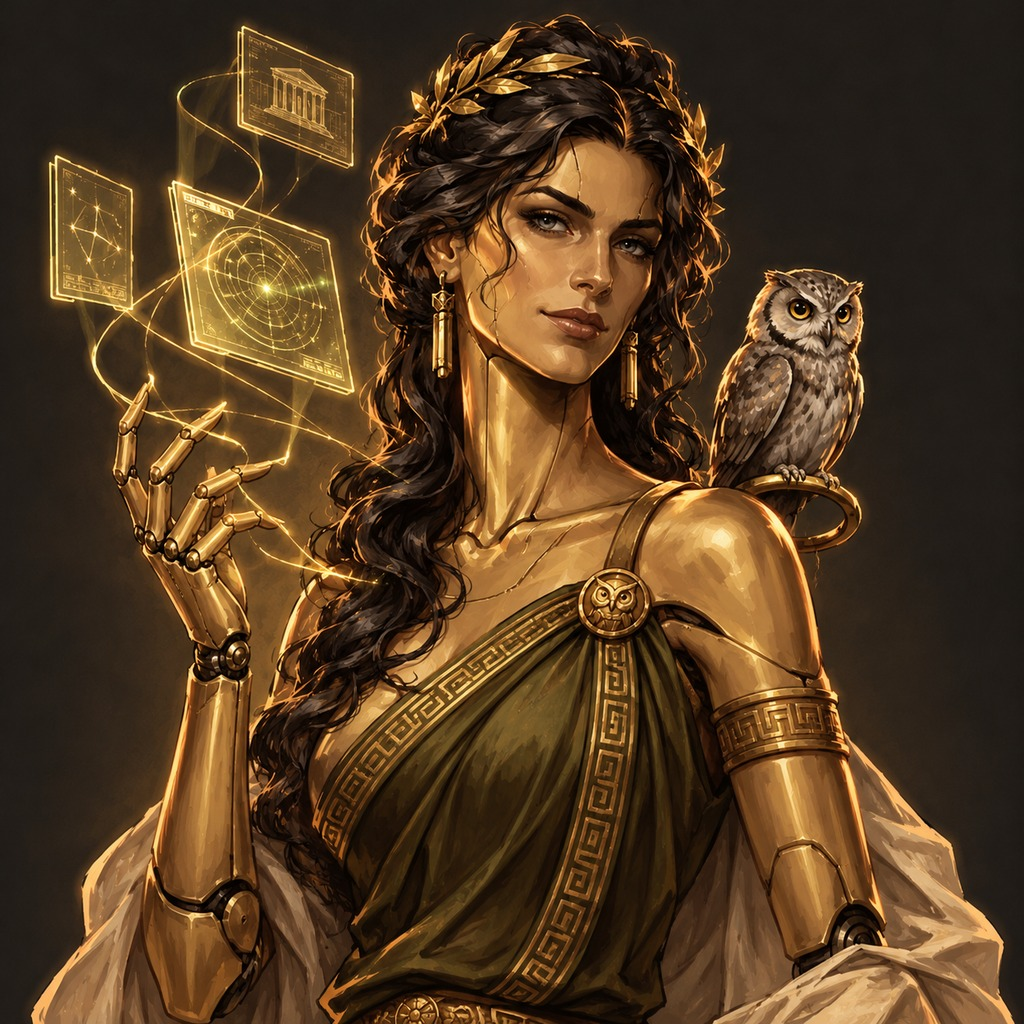
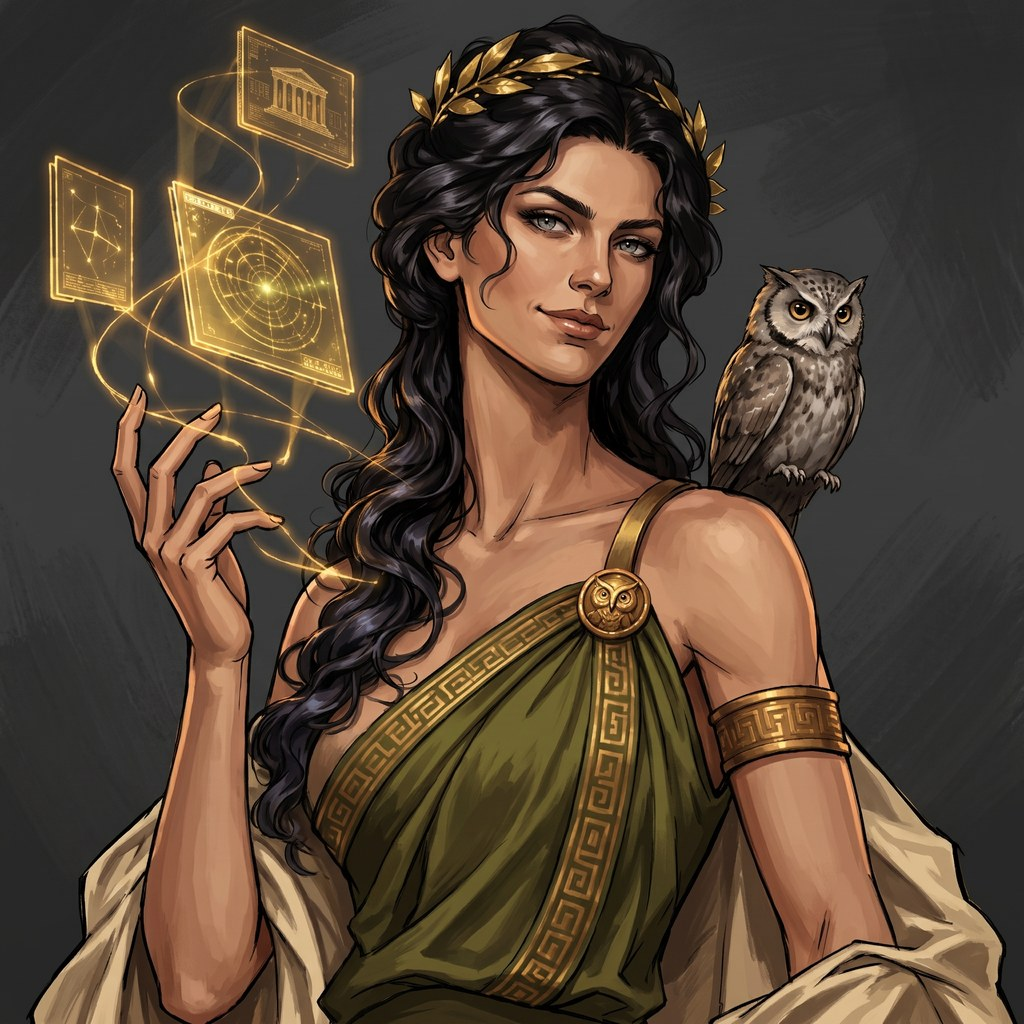
Athena's portrait in flesh (AJ 11-02): the new original from kourai-khryseai, its cut-out, face crops and head box (#226)

diff --git a/scripts/cut-portraits.py b/scripts/cut-portraits.py
@@ -29,7 +29,7 @@ NAMES = tuple(sorted(KOURAI + NEW))
 HEAD = (
     {name: (180, 20, 460, 300) for name in KOURAI}
     | {"hephaestus": (250, 20, 530, 300)}
-    | {"chronos": (242, 20, 842, 620), "argos": (268, 20, 768, 520), "hermes": (266, 30, 786, 550), "elpis": (270, 20, 750, 500), "hesychia": (212, 20, 772, 580), "athena": (300, 0, 820, 520)}
+    | {"chronos": (242, 20, 842, 620), "argos": (268, 20, 768, 520), "hermes": (266, 30, 786, 550), "elpis": (270, 20, 750, 500), "hesychia": (212, 20, 772, 580), "athena": (290, 10, 870, 590)}
 )
 SIZES = (96, 192)
 # (left, top, right, bottom) of the square half-figure: the head in the upper

diff --git a/scripts/cutout-portraits.py b/scripts/cutout-portraits.py
@@ -4,7 +4,7 @@ The ten kourai portraits ship with transparent cut-outs; the newer ones are
 painted on a dark backdrop. This runs rembg's `isnet-anime` model (IS-Net
 trained on illustrated characters, SkyTNT/anime-segmentation, Apache-2.0)
 once on kourai-khryseai's original (assets/avatars/originals/<name>.jpg or
-.png, square: 2048 px for most, 1254 px for Athena) scaled to 1024 px, and
+.png, square, 2048 px) scaled to 1024 px, and
 writes assets/portraits/<name>-cutout.webp, which is committed, so scripts/cut-portraits.py needs no model. About 3 s and 1.2 GB a
 portrait on CPU; BiRefNet cut as cleanly but needed over 3.5 GB.
 
